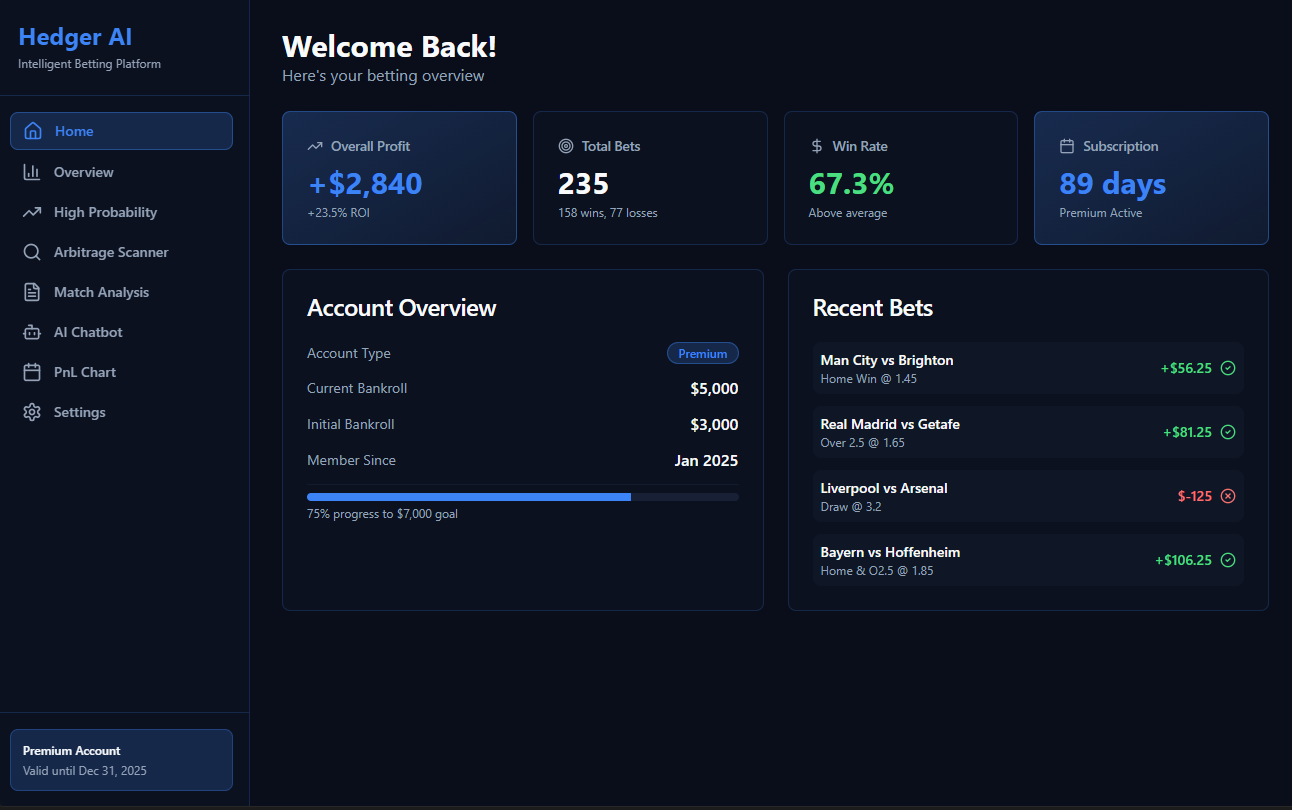
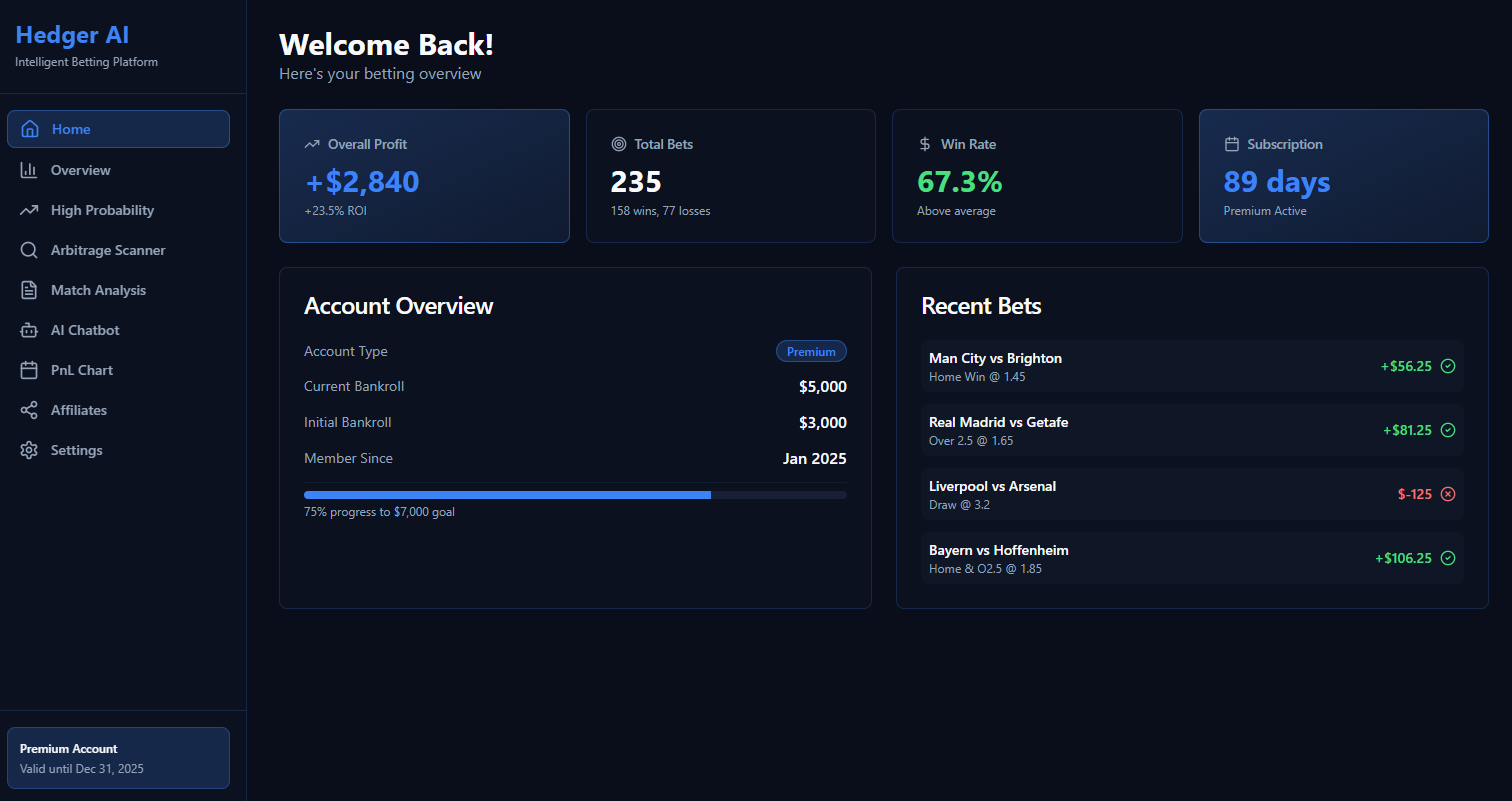
Update pricing and affiliate features

diff --git a/src/components/FAQ.tsx b/src/components/FAQ.tsx
@@ -46,6 +46,10 @@ const faqs = [
   {
     question: "How much do I need to start with?",
     answer: "We recommend starting with at least $100 in your betting bankroll. This allows you to properly implement our bankroll management strategies, which typically suggest betting 1-5% per wager. Starting with $100 gives you enough flexibility to follow multiple predictions, take advantage of arbitrage opportunities, and build your profits steadily without overexposing your capital. However, you can start with any amount you're comfortable with - just remember to adjust your bet sizes accordingly to maintain proper risk management."
+  },
+  {
+    question: "What is Affiliate Access?",
+    answer: "Affiliate Access allows you to earn 50% commission on each subscription purchased using your unique referral code. Share your code with others, and when they sign up, you'll earn ongoing commissions for each active subscription. Track your referrals, earnings, and performance all within your dashboard."
   }
 ];
 

diff --git a/src/components/Pricing.tsx b/src/components/Pricing.tsx
@@ -36,7 +36,8 @@ const plans = [
       "Priority Support",
       "Advanced Risk Management",
       "VIP Community Access",
-      "Custom Picks"
+      "Custom Picks",
+      "Affiliate Access"
     ],
     paymentLink: "https://buy.stripe.com/aEUaIZ9mq0Pf9K828b",
     popular: true
